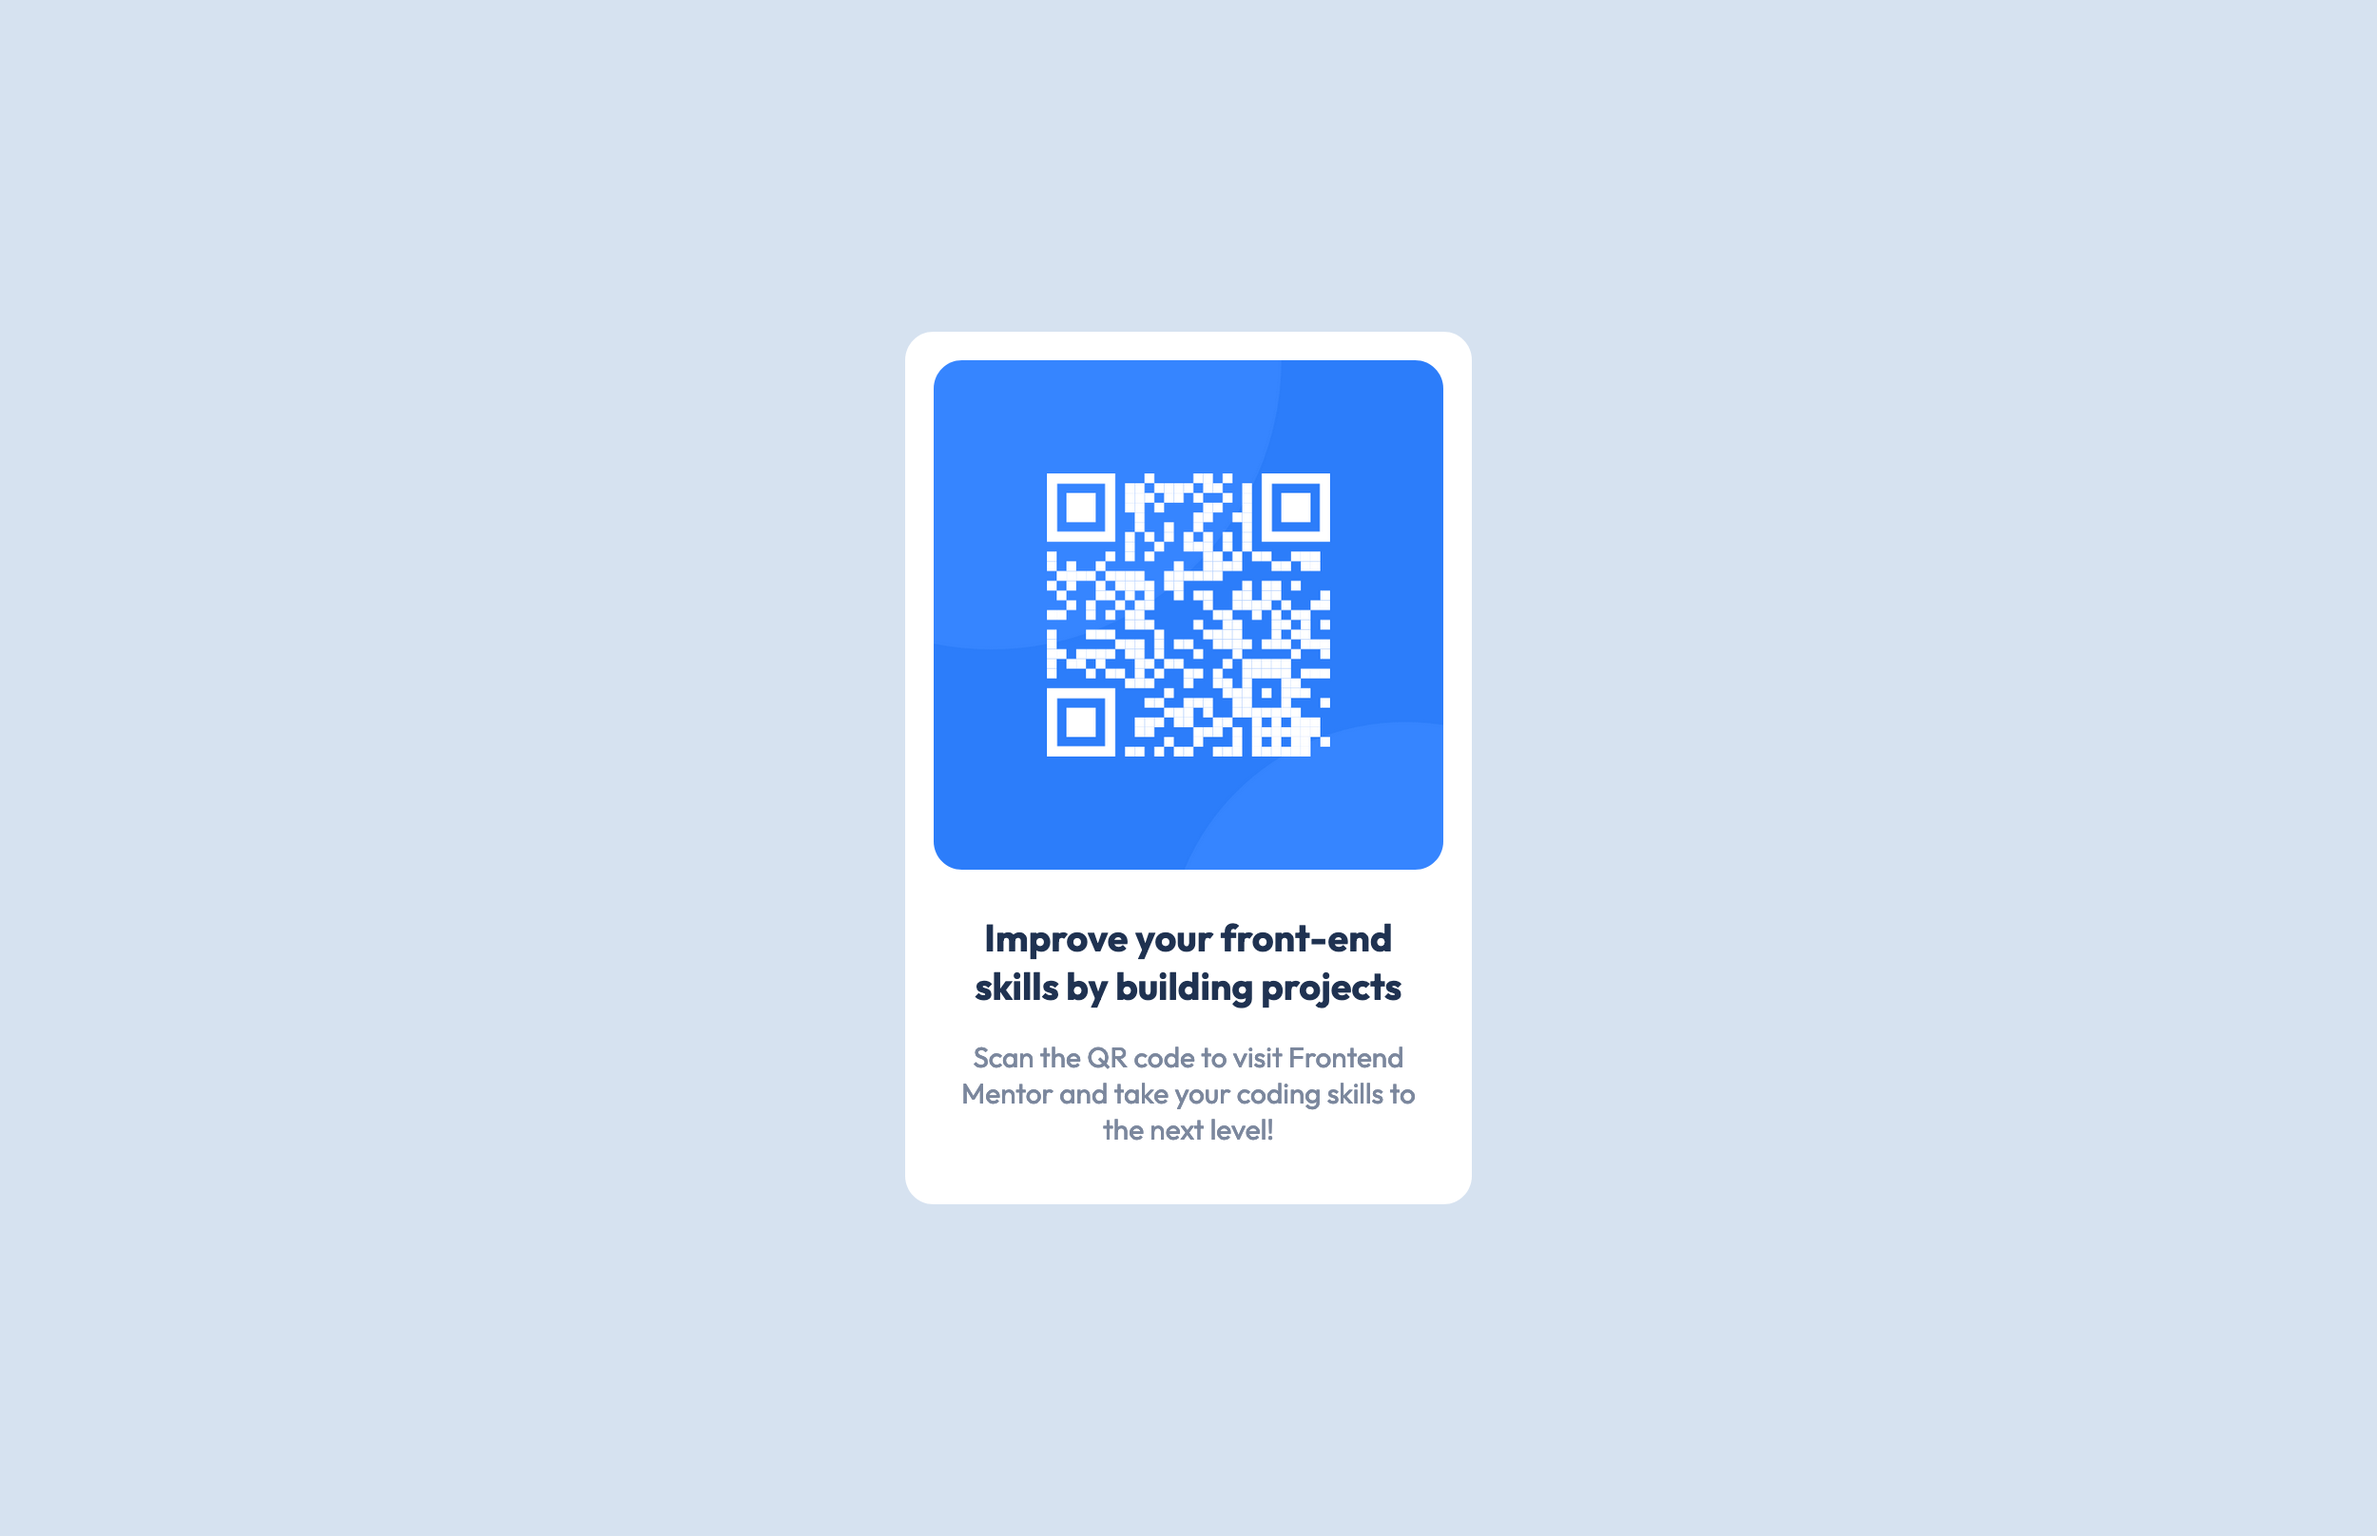
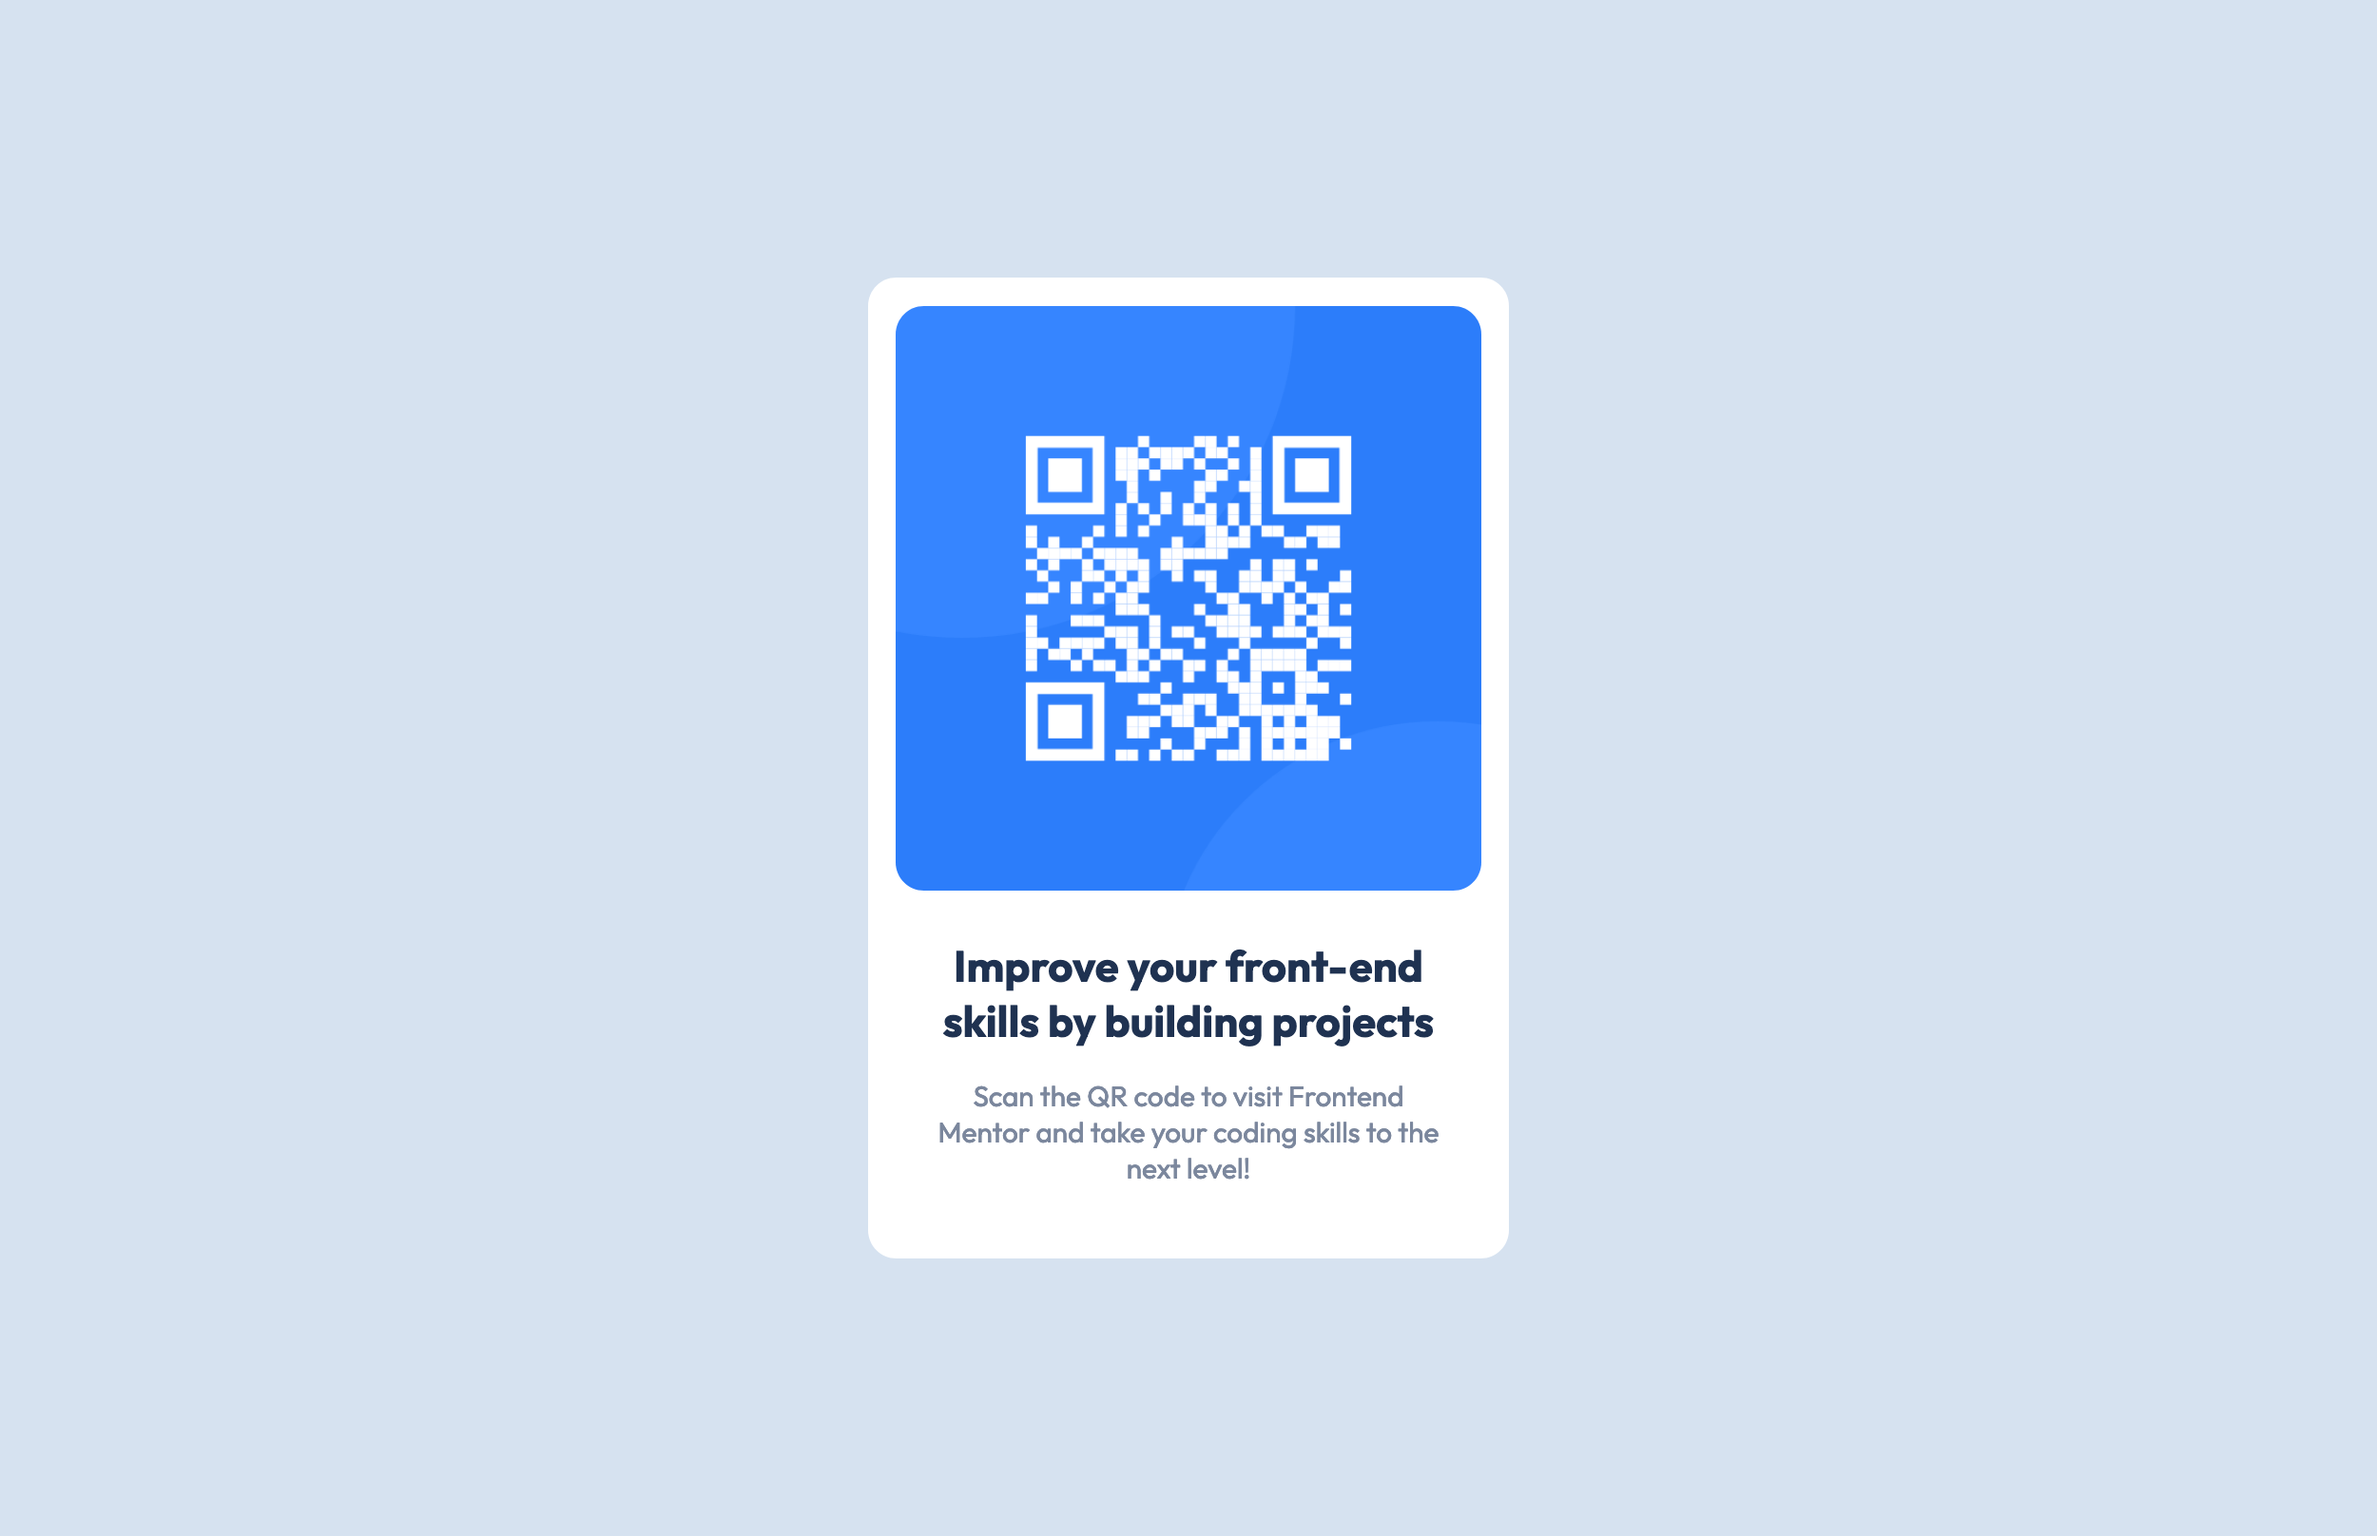
added new screenshot and added main landmark

Changed region(s): [[0.3432, 0.1547, 0.6552, 0.8354]]

diff --git a/index.html b/index.html
@@ -16,15 +16,17 @@
     <title>Frontend Mentor | QR code component</title>
   </head>
   <body>
-    <div class="card">
-      <img src="./images/image-qr-code.png" alt="Qr code image" />
-      <div class="info-wrapper">
-        <h1>Improve your front-end skills by building projects</h1>
-        <p>
-          Scan the QR code to visit Frontend Mentor and take your coding skills
-          to the next level!
-        </p>
+    <main role="main">
+      <div class="card">
+        <img src="./images/image-qr-code.png" alt="Qr code image" />
+        <div class="info-wrapper">
+          <h1>Improve your front-end skills by building projects</h1>
+          <p>
+            Scan the QR code to visit Frontend Mentor and take your coding
+            skills to the next level!
+          </p>
+        </div>
       </div>
-    </div>
+    </main>
   </body>
 </html>

diff --git a/style.css b/style.css
@@ -27,7 +27,8 @@ body {
 }
 
 .card {
-  width: 30rem;
+  width: 34rem;
+  height: 52rem;
   background-color: var(--white);
   padding: 1.5rem;
   border-radius: 1.5rem;
@@ -49,6 +50,7 @@ body {
 
 .info-wrapper h1 {
   color: var(--darkblue);
+  font-size: 2.3rem;
 }
 
 .info-wrapper p {
